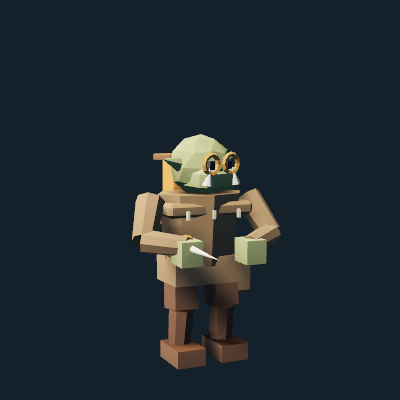
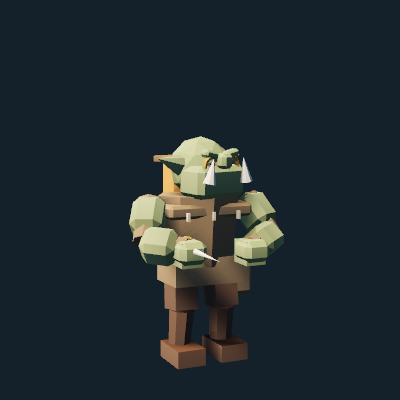
Publish refined OG-01 native portraits, form sheets and bilingual briefs

Changed region(s): [[0.3, 0.33, 0.72, 0.69], [0.54, 0.84, 0.57, 0.87]]

diff --git a/scripts/build-ogre-review-gallery.py b/scripts/build-ogre-review-gallery.py
@@ -12,14 +12,15 @@ def main():
     catalog=json.loads((ROOT/'docs/ogre-faction/catalog.json').read_text())
     records=json.loads((art/'reference-manifest.json').read_text())['images']
     concepts={c['kind']:c['image'] for c in records}
+    engine='engine-final' if (art/'engine-final/capture-manifest.json').exists() else 'engine'
     cards=[]
     for c in catalog['champions']:
-        k=c['kind'];slug=k.lower();portrait=art/'engine'/f'{slug}-portrait.png';lineup=art/'engine'/f'{slug}-lineup.png'
-        actual=(f'<h3>Modelo real no motor Linux</h3><img class="portrait" src="engine/{slug}-portrait.png" alt="{escape(c["name"]["pt"])}"><img src="engine/{slug}-lineup.png" alt="Cinco formas em três poses">' if portrait.is_file() and lineup.is_file() else '<p>Captura real do motor em preparação.</p>')
+        k=c['kind'];slug=k.lower();portrait=art/engine/f'{slug}-portrait.png';lineup=art/engine/f'{slug}-lineup.png'
+        actual=(f'<h3>Modelo real no motor Linux</h3><img class="portrait" src="{engine}/{slug}-portrait.png" alt="{escape(c["name"]["pt"])}"><img src="{engine}/{slug}-lineup.png" alt="Cinco formas em três poses">' if portrait.is_file() and lineup.is_file() else '<p>Captura real do motor em preparação.</p>')
         forms=''.join(f'<li>{f["code"]}: {escape(f["pt"])} / {escape(f["en"])}</li>' for f in c['forms'])
-        cards.append(f'<article id="{slug}"><h2>{escape(c["name"]["pt"])} <small>{escape(c["name"]["en"])}</small></h2><p>{c["faction"]} · {c["archetype"]}</p>{actual}<p>{escape(c["kit"])}</p><ul>{forms}</ul><details><summary>Referência ilustrativa de conceito · Base, A1, A2, B1, B2</summary><img src="{concepts[k]}" alt="Conceito low-poly de cinco formas"><p>Ilustração de referência; as capturas reais do modelo aparecem acima quando prontas.</p></details></article>')
-    old=art/'engine/siegewalker-lineup.png'
-    existing='<article><h2>Arqueiro Ogro / Ogre Archer</h2><p>Transferido para Ogros. Alcance igual ao Arqueiro nas cinco formas; reserva visual inclui bazuca e braços, sem pedestal.</p>'+(f'<img src="engine/{old.name}" alt="Arqueiro Ogro: cinco formas sem pedestal">' if old.is_file() else '')+'</article>'
+        cards.append(f'<article id="{slug}"><h2>{escape(c["name"]["pt"])} <small>{escape(c["name"]["en"])}</small></h2><p>{c["faction"]} · {c["archetype"]}</p>{actual}<p>{escape(c.get("kit_pt",c["kit"]))}</p><ul>{forms}</ul><details><summary>Referência ilustrativa de conceito · Base, A1, A2, B1, B2</summary><img src="{concepts[k]}" alt="Conceito low-poly de cinco formas"><p>Ilustração de referência; as capturas reais do modelo aparecem acima quando prontas.</p></details></article>')
+    old=art/engine/'siegewalker-lineup.png'
+    existing='<article><h2>Arqueiro Ogro / Ogre Archer</h2><p>Transferido para Ogros. Alcance igual ao Arqueiro nas cinco formas; reserva visual inclui bazuca e braços, sem pedestal.</p>'+(f'<img src="{engine}/{old.name}" alt="Arqueiro Ogro: cinco formas sem pedestal">' if old.is_file() else '')+'</article>'
     css='*{box-sizing:border-box}body{margin:0;background:#14202a;color:#eee8dd;font:16px/1.6 system-ui}main{max-width:1500px;margin:auto;padding:36px}article{padding:24px;background:#1b2935;border:1px solid #42505c;margin:26px 0;border-radius:10px}img{width:100%;display:block;margin:18px 0}.portrait{width:240px;height:240px}small{font-size:16px;color:#c6b698}a,summary{color:#dfbf85}summary{cursor:pointer}h1,h2{line-height:1.2}li{margin:5px 0}'
     nav=' · '.join(f'<a href="#{c["kind"].lower()}">{escape(c["name"]["pt"])}</a>' for c in catalog['champions'])
     page=f'<!doctype html><html lang="pt-BR"><meta charset="utf-8"><meta name="viewport" content="width=device-width"><title>Ogros · TBG</title><style>{css}</style><main><h1>Ogros · nove campeões na nova facção</h1><p>Oito novos Ogros e a Balista de Rebites para Máquinas. Catálogo completo: 72 campeões, oito Facções, nove por Facção.</p><p>Ogros: 1 tanque, 3 corpo a corpo, 2 de distância, 2 de controle, 1 suporte. Novos campeões em teste na prévia local. Windows e web ainda aguardam comparação visual.</p><nav>{nav}</nav>{existing}{"".join(cards)}<footer>As referências de IA e as capturas do motor preservam suas próprias origens; conferir os manifests de cada pasta.</footer></main></html>'

diff --git a/docs/ogre-faction/README.md b/docs/ogre-faction/README.md
@@ -1,0 +1,34 @@
+# Ogres / Ogros — OG-01 authored preview
+
+Eight new Ogres join the existing Ogre Archer (stable code `SiegeWalker`).
+Rivet Ballista fills its Machine slot. The authored catalog has 72 conventional
+champions, eight Factions, nine per Faction. Ogres have one Tank, three Dps,
+two Ranged, two Control and one Support. The online pool remains 46;
+all 26 preview additions are visibly marked on the public catalog.
+
+Local review with actual engine portraits, five-form sheets and separate AI
+reference disclosures: <http://localhost:8964/>. Landing preview:
+<http://localhost:8604/#champions>. These are local previews; no public deployment.
+
+- [Ogre Archer — five forms](previews/siegewalker-forms.webp): exact Archer range,
+  measured bazooka/arm clearance, no presentation pedestal.
+- [Basalt Bulwark / Bastião de Basalto](basaltbulwark.md) · [forms](previews/basaltbulwark-forms.webp).
+- [Cinder Maul / Marreta de Brasa](cindermaul.md) · [forms](previews/cindermaul-forms.webp).
+- [Hook Brawler / Brigão do Gancho](hookbrawler.md) · [forms](previews/hookbrawler-forms.webp).
+- [Flint Runner / Corredor de Sílex](flintrunner.md) · [forms](previews/flintrunner-forms.webp).
+- [Clay Binder / Molda-Barro](claybinder.md) · [forms](previews/claybinder-forms.webp).
+- [Gust Drummer / Tambor do Vendaval](gustdrummer.md) · [forms](previews/gustdrummer-forms.webp).
+- [Hide Mender / Remendeiro de Couro](hidemender.md) · [forms](previews/hidemender-forms.webp).
+- [Pebble Slinger / Lança-Seixos](pebbleslinger.md) · [forms](previews/pebbleslinger-forms.webp).
+- [Rivet Ballista / Balista de Rebites](rivetballista.md) · [forms](previews/rivetballista-forms.webp).
+
+The [catalog](catalog.json) carries bilingual names/forms and gameplay intent.
+The [prompt set](image-prompts.json) and [reference manifest](reference-manifest.json)
+identify all nine original built-in image_gen sheets. Full reference PNGs stay
+outside git under `.local/ogre-faction-2026-11-01/concepts` in the original checkout.
+[Native preview provenance](native-previews.json) identifies each committed sheet's
+actual source revision; review sheets use WebP quality 90, with the original PNG hash retained. Shop portraits use pixel-identical lossless encoding.
+
+[Validation, D-33 evidence and limitations](../phases/OGRE-FACTION.md) distinguish
+observed Linux behavior from pending Windows/game-web motion, look/fun acceptance
+and full competitive balance. New values are Proposed under GAME-DESIGN OG-01.

diff --git a/docs/phases/OGRE-FACTION.md b/docs/phases/OGRE-FACTION.md
@@ -105,3 +105,25 @@ stone faces; Flint uses aged pale skin. The Machine replacement and existing
 Ogre Archer keep their own anatomy. This is presentation-only. Initial images
 retain their provenance; affected portraits/lineups are replaced from a new
 committed renderer, with unchanged kinds reused only through verified manifests.
+
+## Refined native assets and landing
+
+The Ogre anatomy refinement passed the three affected geometry/clearance/
+ring-only tests in 0.99 s. Native renderer build passed in 14.79 s from
+`03b9b2de158c2a6d5e75873c814e501beec7fbd8` (same shared lock, two jobs).
+All 16 affected Ogre portrait/lineup captures passed readiness and content
+hash checks. The four unchanged Ogre Archer/Rivet captures are reused with
+their original `abe7893` provenance. Final review manifest has 20 captures;
+all ten portrait WebPs are pixel-identical to their PNGs and below 40 KiB.
+Ten committed five-form sheets use WebP quality 90 and are below 400 KiB each; provenance
+is in docs/ogre-faction/native-previews.json. The full 1600×1000 originals and
+logs remain outside git. No loading screen is accepted as a capture.
+
+`python3 web/scripts/check.py` passed: landing 146 files / 3815 KiB,
+admin-public 16 / 240 KiB, admin-preview 141 / 2088 KiB; generated content
+freshness passed. The real desktop browser showed 72 cards, eight 9-count
+filters and 26 preview badges; the Ogre filter and bilingual names/counts
+were observed. Its first image observation found the dev server's startup
+manifest had been created before the newly tracked portrait files; only that
+owned local server was restarted. Final image loading and install witness
+are recorded below. This static landing check does not verify game-web parity.
